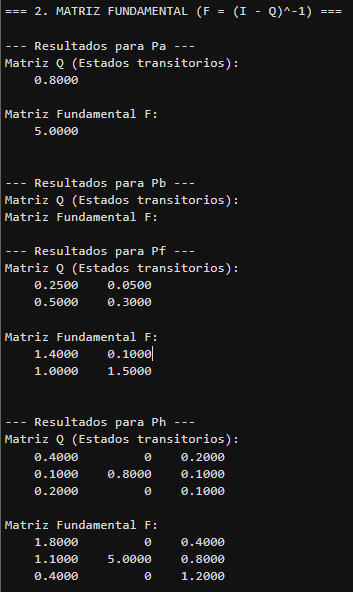
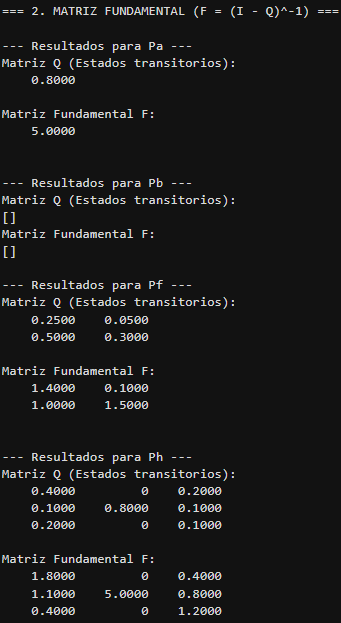
refactor(Markov Chains): Refactor task 2

diff --git a/entregable_4/cadenas_de_markov_ejercicio_2.m b/entregable_4/cadenas_de_markov_ejercicio_2.m
@@ -34,9 +34,17 @@ for i = 1:length(true_abs_mats)
     
     fprintf('\n--- Resultados para %s ---\n', true_abs_names{i});
     fprintf('Matriz Q (Estados transitorios):\n');
-    disp(Q);
+    if isempty(Q)
+        disp('[]')
+    else
+        disp(Q);
+    end
     fprintf('Matriz Fundamental F:\n');
-    disp(F);
+    if isempty(F)
+        disp('[]')
+    else
+        disp(F);
+    end
 end
 
 %% 3. Comprobación de Matrices Regulares
@@ -75,19 +83,24 @@ fprintf('Otras:       %s\n', strjoin(setdiff(names, [true_abs_names, reg_names])
 % -------------------------------------------------------------------------
 
 function [F, Q] = calculate_fundamental_matrix(M)
-    abs_states = [];
     n = size(M,1);
+    abs_states = [];
     for i = 1:n
-        % Identifica si el estado es puramente absorbente
-        if M(i,i) == 1 && all(M(i,[1:i-1,i+1:n]) == 0)
+        % Un estado es absorbente si M(i,i) == 1 y el resto de la fila es 0
+        if M(i,i) == 1 && all(M(i,[1:i-1, i+1:n]) == 0)
             abs_states(end+1) = i;
         end
     end
+    
     trans_states = setdiff(1:n, abs_states);
-    % Si hay estados transitorios, calcula la matriz F
-    if isempty(trans_states)
+    
+    % Si hay estados transitorios, calculamos. Si no, devolvemos vacío.
+    if ~isempty(trans_states)
         Q = M(trans_states, trans_states);
         F = inv(eye(size(Q)) - Q);
+    else
+        Q = [];
+        F = [];
     end
 end
 
